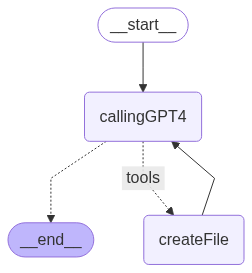
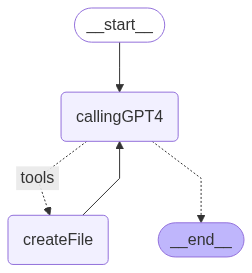
step1

diff --git a/imagegenerator.py b/imagegenerator.py
@@ -60,22 +60,23 @@ def createFile(text: str, namefile:str) -> None:
 
 listTool = [createFile,createImage]
 
-firstMessage = 'Batman on the beach, create a image'
+firstMessage = """
+
+I want that you create a prompt for family in the beach, and using that prompt create a image and save it,
+also create a .txt saying that you succed if that were the case
+
+"""
+
 name1 ,name2, profession1, profession2 =  'Juan','Sebas','teacher','police'
+
 sys_msgGPT4 = f"You are {name1}, you are {profession1}"
-sys_msgGPT3 = f"You are {name2}, you are {profession2}"
-
-
 sys_msgGPT4 = SystemMessage(content = sys_msgGPT4)
-sys_msgGPT3 = SystemMessage(content = sys_msgGPT3)
 
-interaction = 2
+numImages = 2
 
 gpt4_1_chat = ChatOpenAI(model="gpt-4o", temperature=0)
 gpt35_chat = ChatOpenAI(model="gpt-3.5-turbo-0125", temperature=0)
-gpt4_1_chat = gpt4_1_chat.bind_tools([createImage])
-
-#gpt35_chat = gpt35_chat.bind_tools([createFile,createImage])
+gpt4_1_chat = gpt4_1_chat.bind_tools(listTool)
 
 class State(MessagesState):
   count: int
@@ -85,39 +86,25 @@ class State(MessagesState):
 def callingGPT4(state: State) -> dict:
   resp: AIMessage = gpt4_1_chat.invoke([sys_msgGPT4]+state["messages"])
   return {"messages": [resp],"count":state["count"]+1}
-
-def callingGPT35(state: State) -> dict:
-    resp: AIMessage = gpt35_chat.invoke([sys_msgGPT3]+state["messages"]) 
-    return {"messages": [resp],"count":state["count"]+1}
-
-def route4(state: State) -> Literal["callingGPT35", "__end__"]:
-    return "__end__" if (state["count"] >= interaction) else "callingGPT35"
-
-def route35(state: State) -> Literal["callingGPT4", "__end__"]:
-    return "__end__" if (state["count"] >= interaction) else "callingGPT4"
-
 # --------
 
 builder = StateGraph(State)
 builder.add_node("callingGPT4",callingGPT4)
-builder.add_node("createFile",ToolNode([createImage]))
+builder.add_node("createFile",ToolNode(listTool))
 
 builder.add_edge(START, "callingGPT4")
 builder.add_edge("createFile", "callingGPT4")
+
+#builder.add_edge("callingGPT4",route)
+
 builder.add_conditional_edges(
 "callingGPT4",
 tools_condition,
 {
     "tools":"createFile",
-    "__end__":END
-}
-)
+})
 
 builder.add_edge("createFile","callingGPT4")
-
-#builder.add_conditional_edges("callingGPT4", route4, {"createFile":"createFile","__end__":END})#"callingGPT35": "callingGPT35", "__end__": END})
-#builder.add_conditional_edges("callingGPT35", route35, {"createFile":"createFile","callingGPT4": "callingGPT4", "__end__": END})
-
 # -------
 
 graph = builder.compile()
@@ -135,6 +122,3 @@ initial = {
 messages = graph.invoke(initial)
 for m in messages['messages']:
     m.pretty_print()
-
-
-#   builder.add_node(callingGPT35,callingGPT35)
